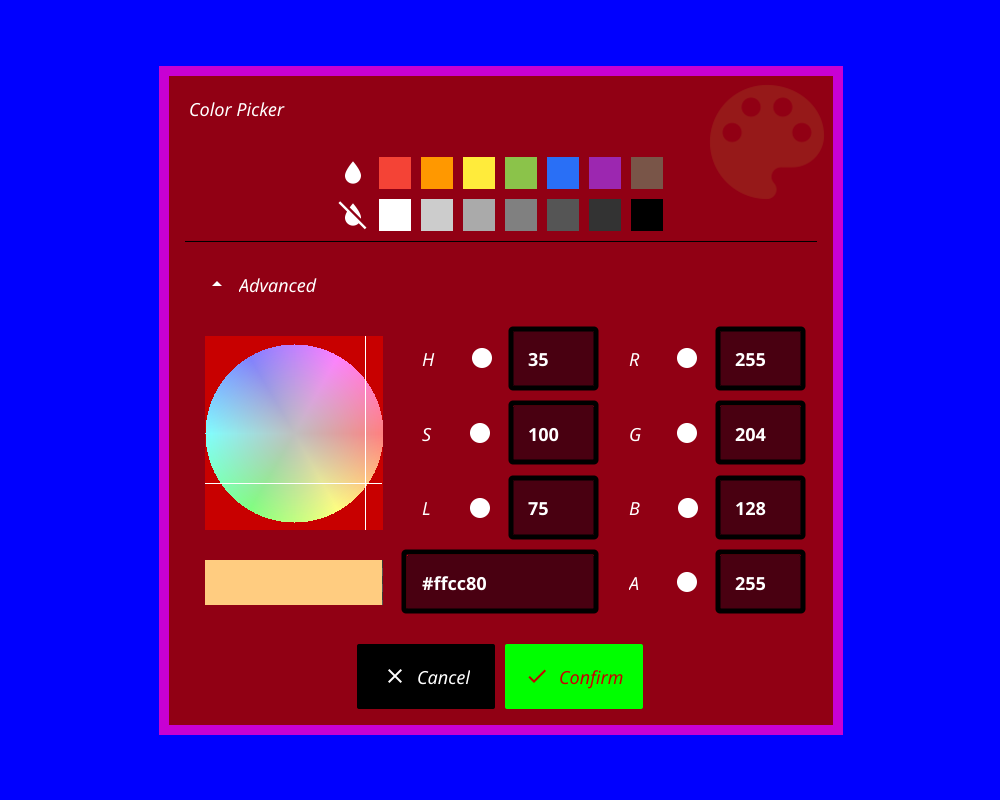
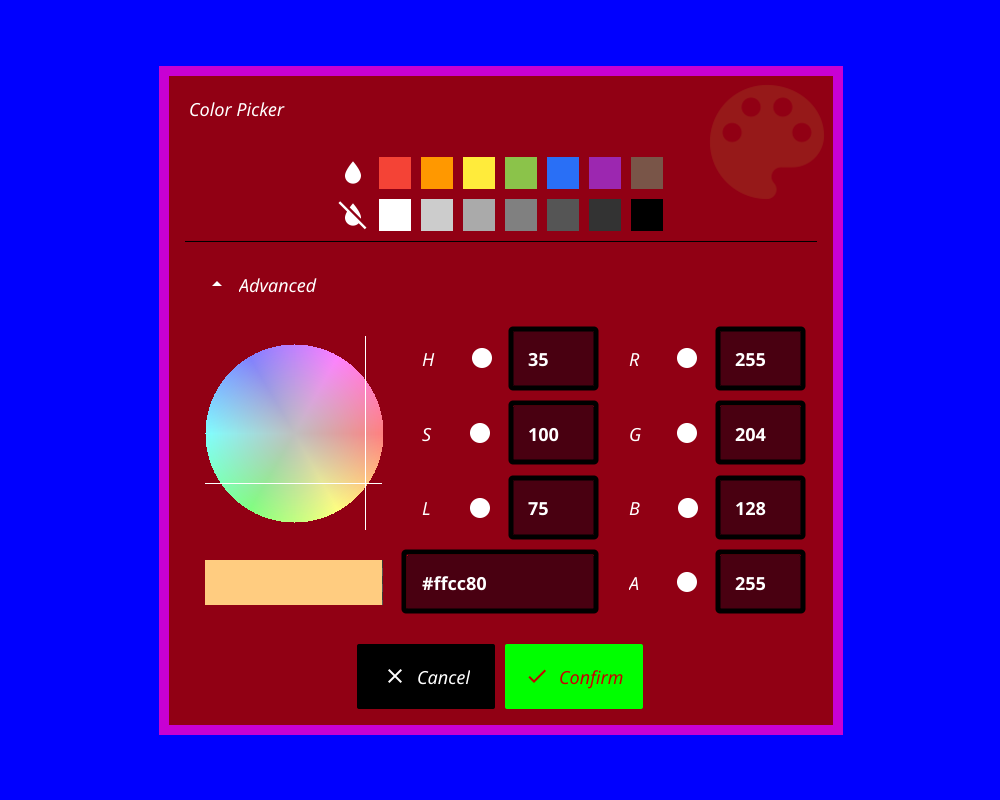
Use transparency around colour wheel
Fixes #4199

Changed region(s): [[0.186, 0.5625, 0.403, 0.6875], [0.186, 0.4062, 0.403, 0.5312]]

diff --git a/dialog/color.go b/dialog/color.go
@@ -185,6 +185,12 @@ func newCheckeredBackground(radial bool) *canvas.Raster {
 		rect := f
 		f = func(x, y, w, h int) color.Color {
 			r, t := cmplx.Polar(complex(float64(x)-float64(w)/2, float64(y)-float64(h)/2))
+			limit := math.Min(float64(w), float64(h)) / 2.0
+			if r > limit {
+				// Out of bounds
+				return &color.NRGBA{A: 0}
+			}
+
 			x = int((t + math.Pi) / (2 * math.Pi) * checkeredNumberOfRings * checkeredBoxSize)
 			y = int(r)
 			return rect(x, y, 0, 0)

diff --git a/dialog/color_wheel.go b/dialog/color_wheel.go
@@ -117,7 +117,7 @@ func (a *colorWheel) colorAt(x, y, w, h int) color.Color {
 	limit := math.Min(width, height) / 2.0
 	if radius > limit {
 		// Out of bounds
-		return theme.BackgroundColor()
+		return color.Transparent
 	}
 	degrees := radians * (180.0 / math.Pi)
 	hue := wrapHue(int(degrees))
